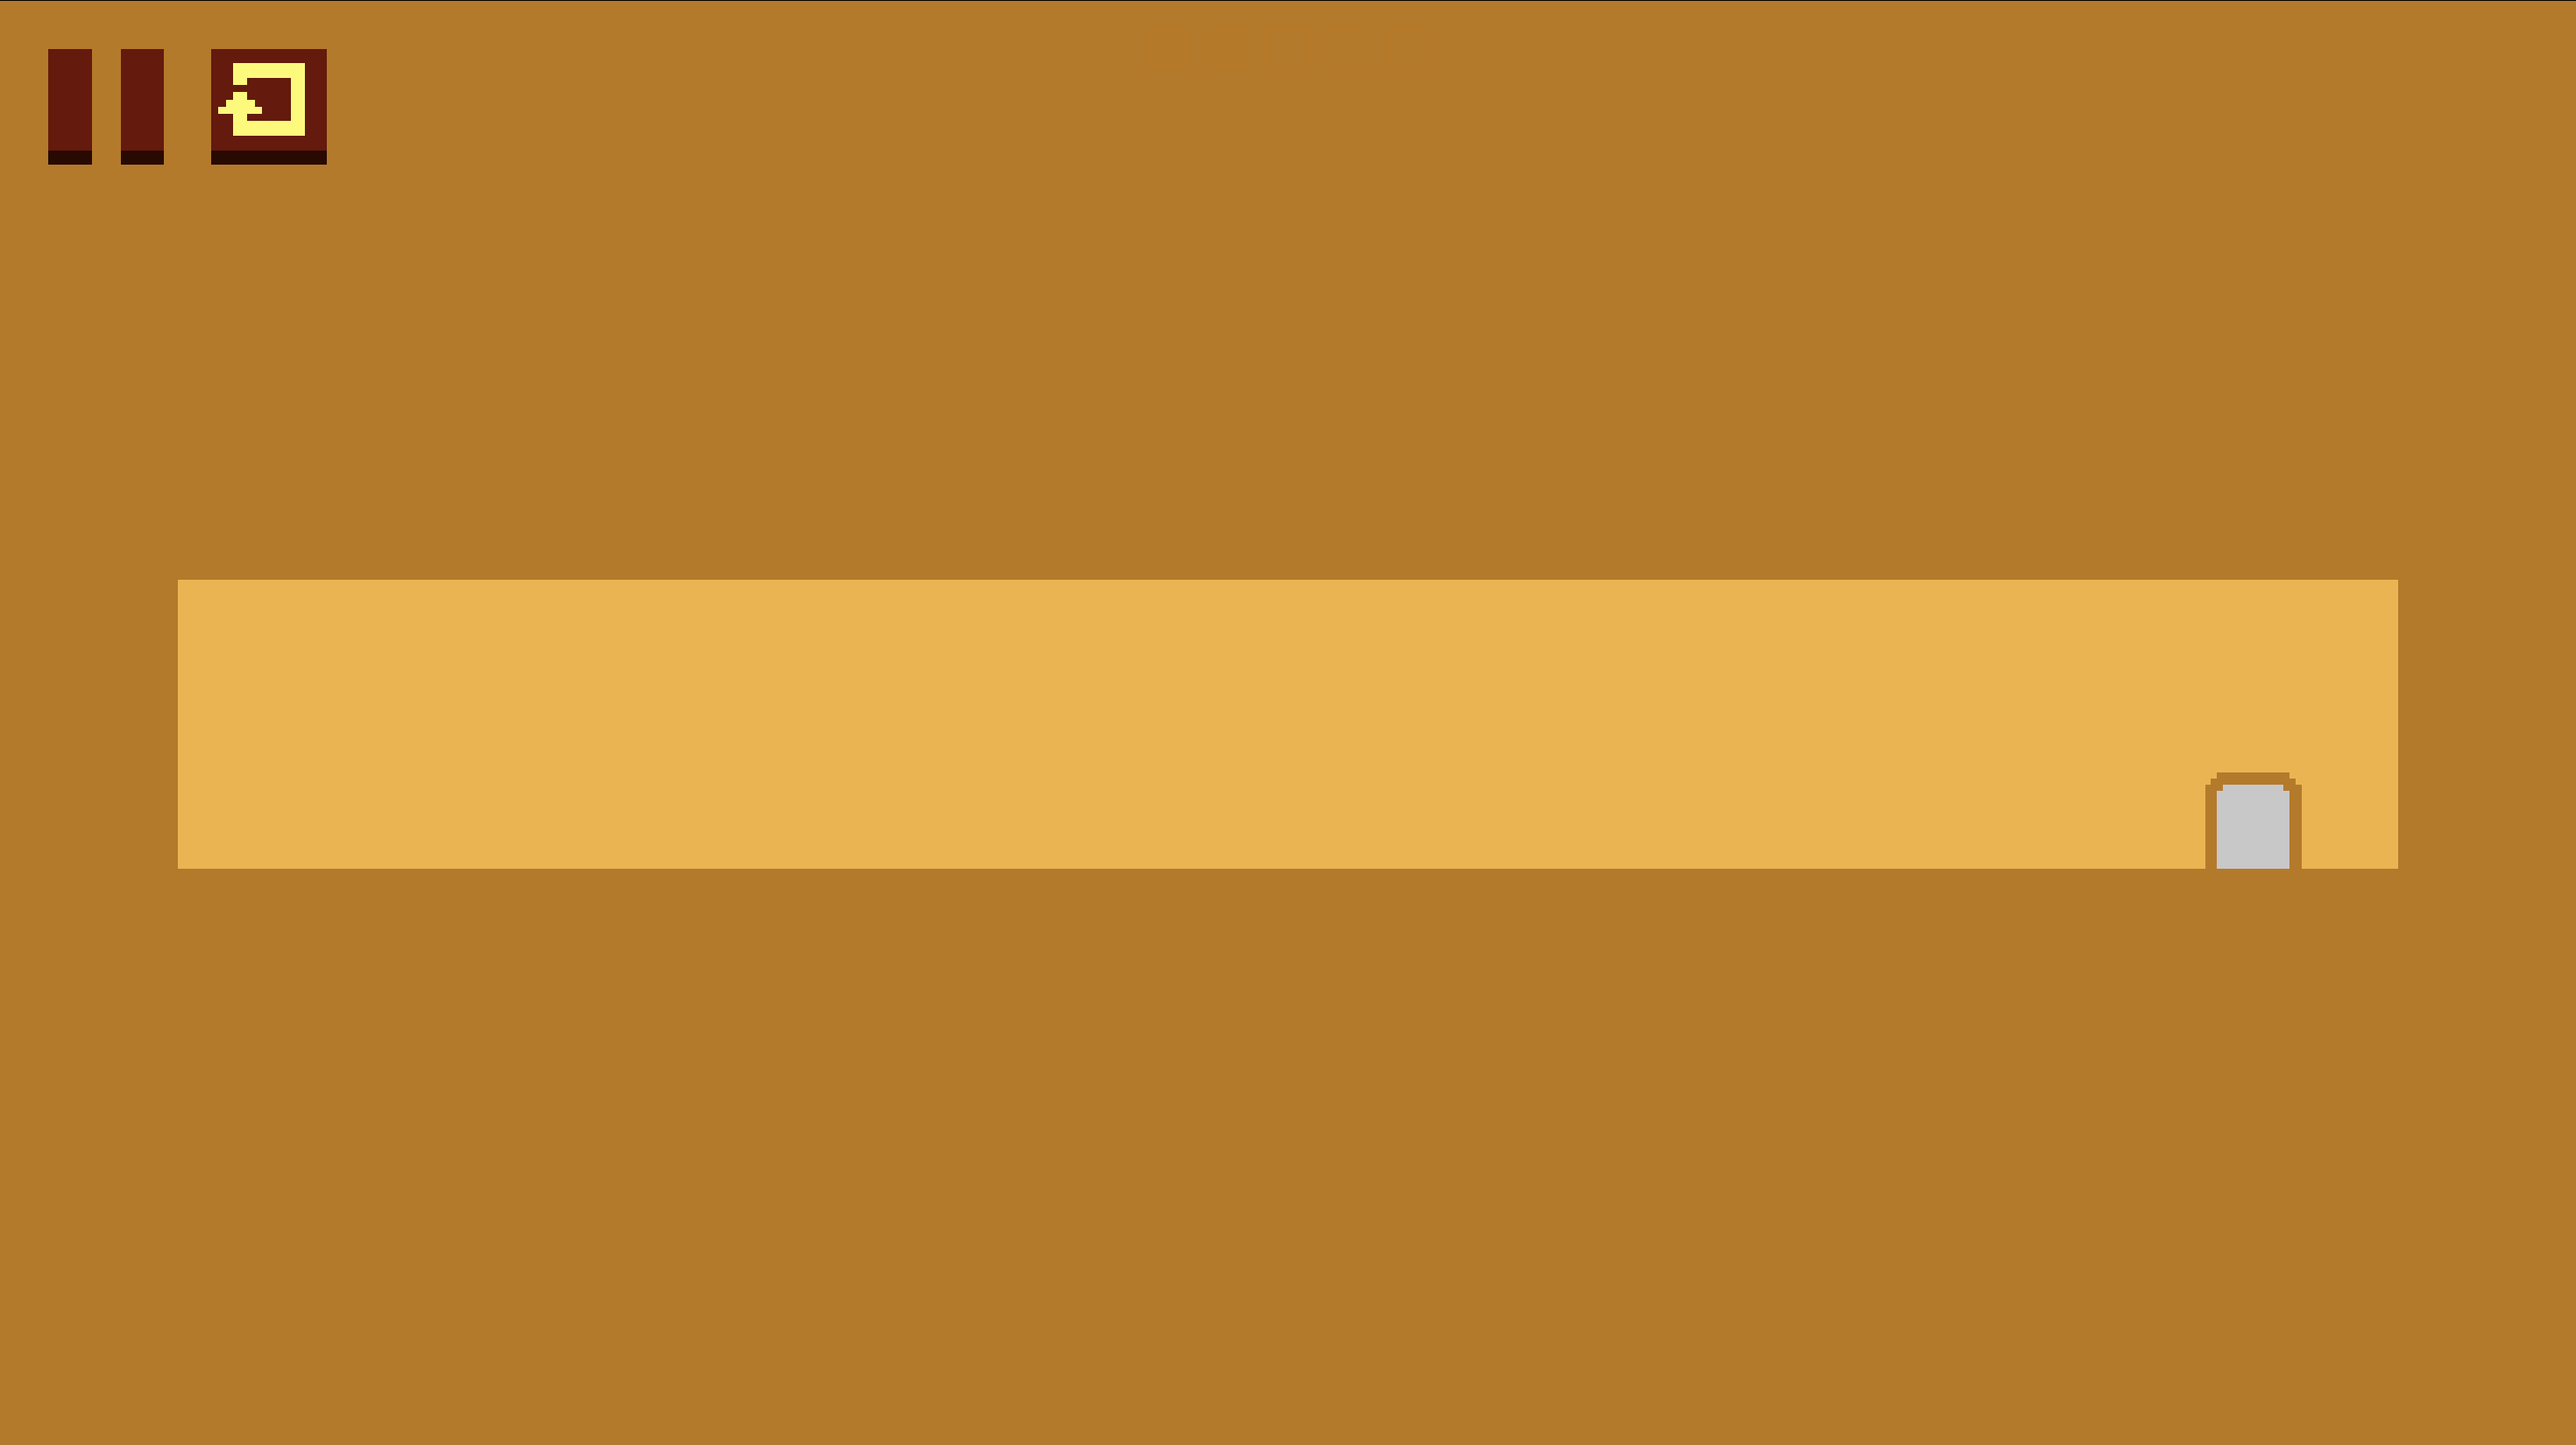
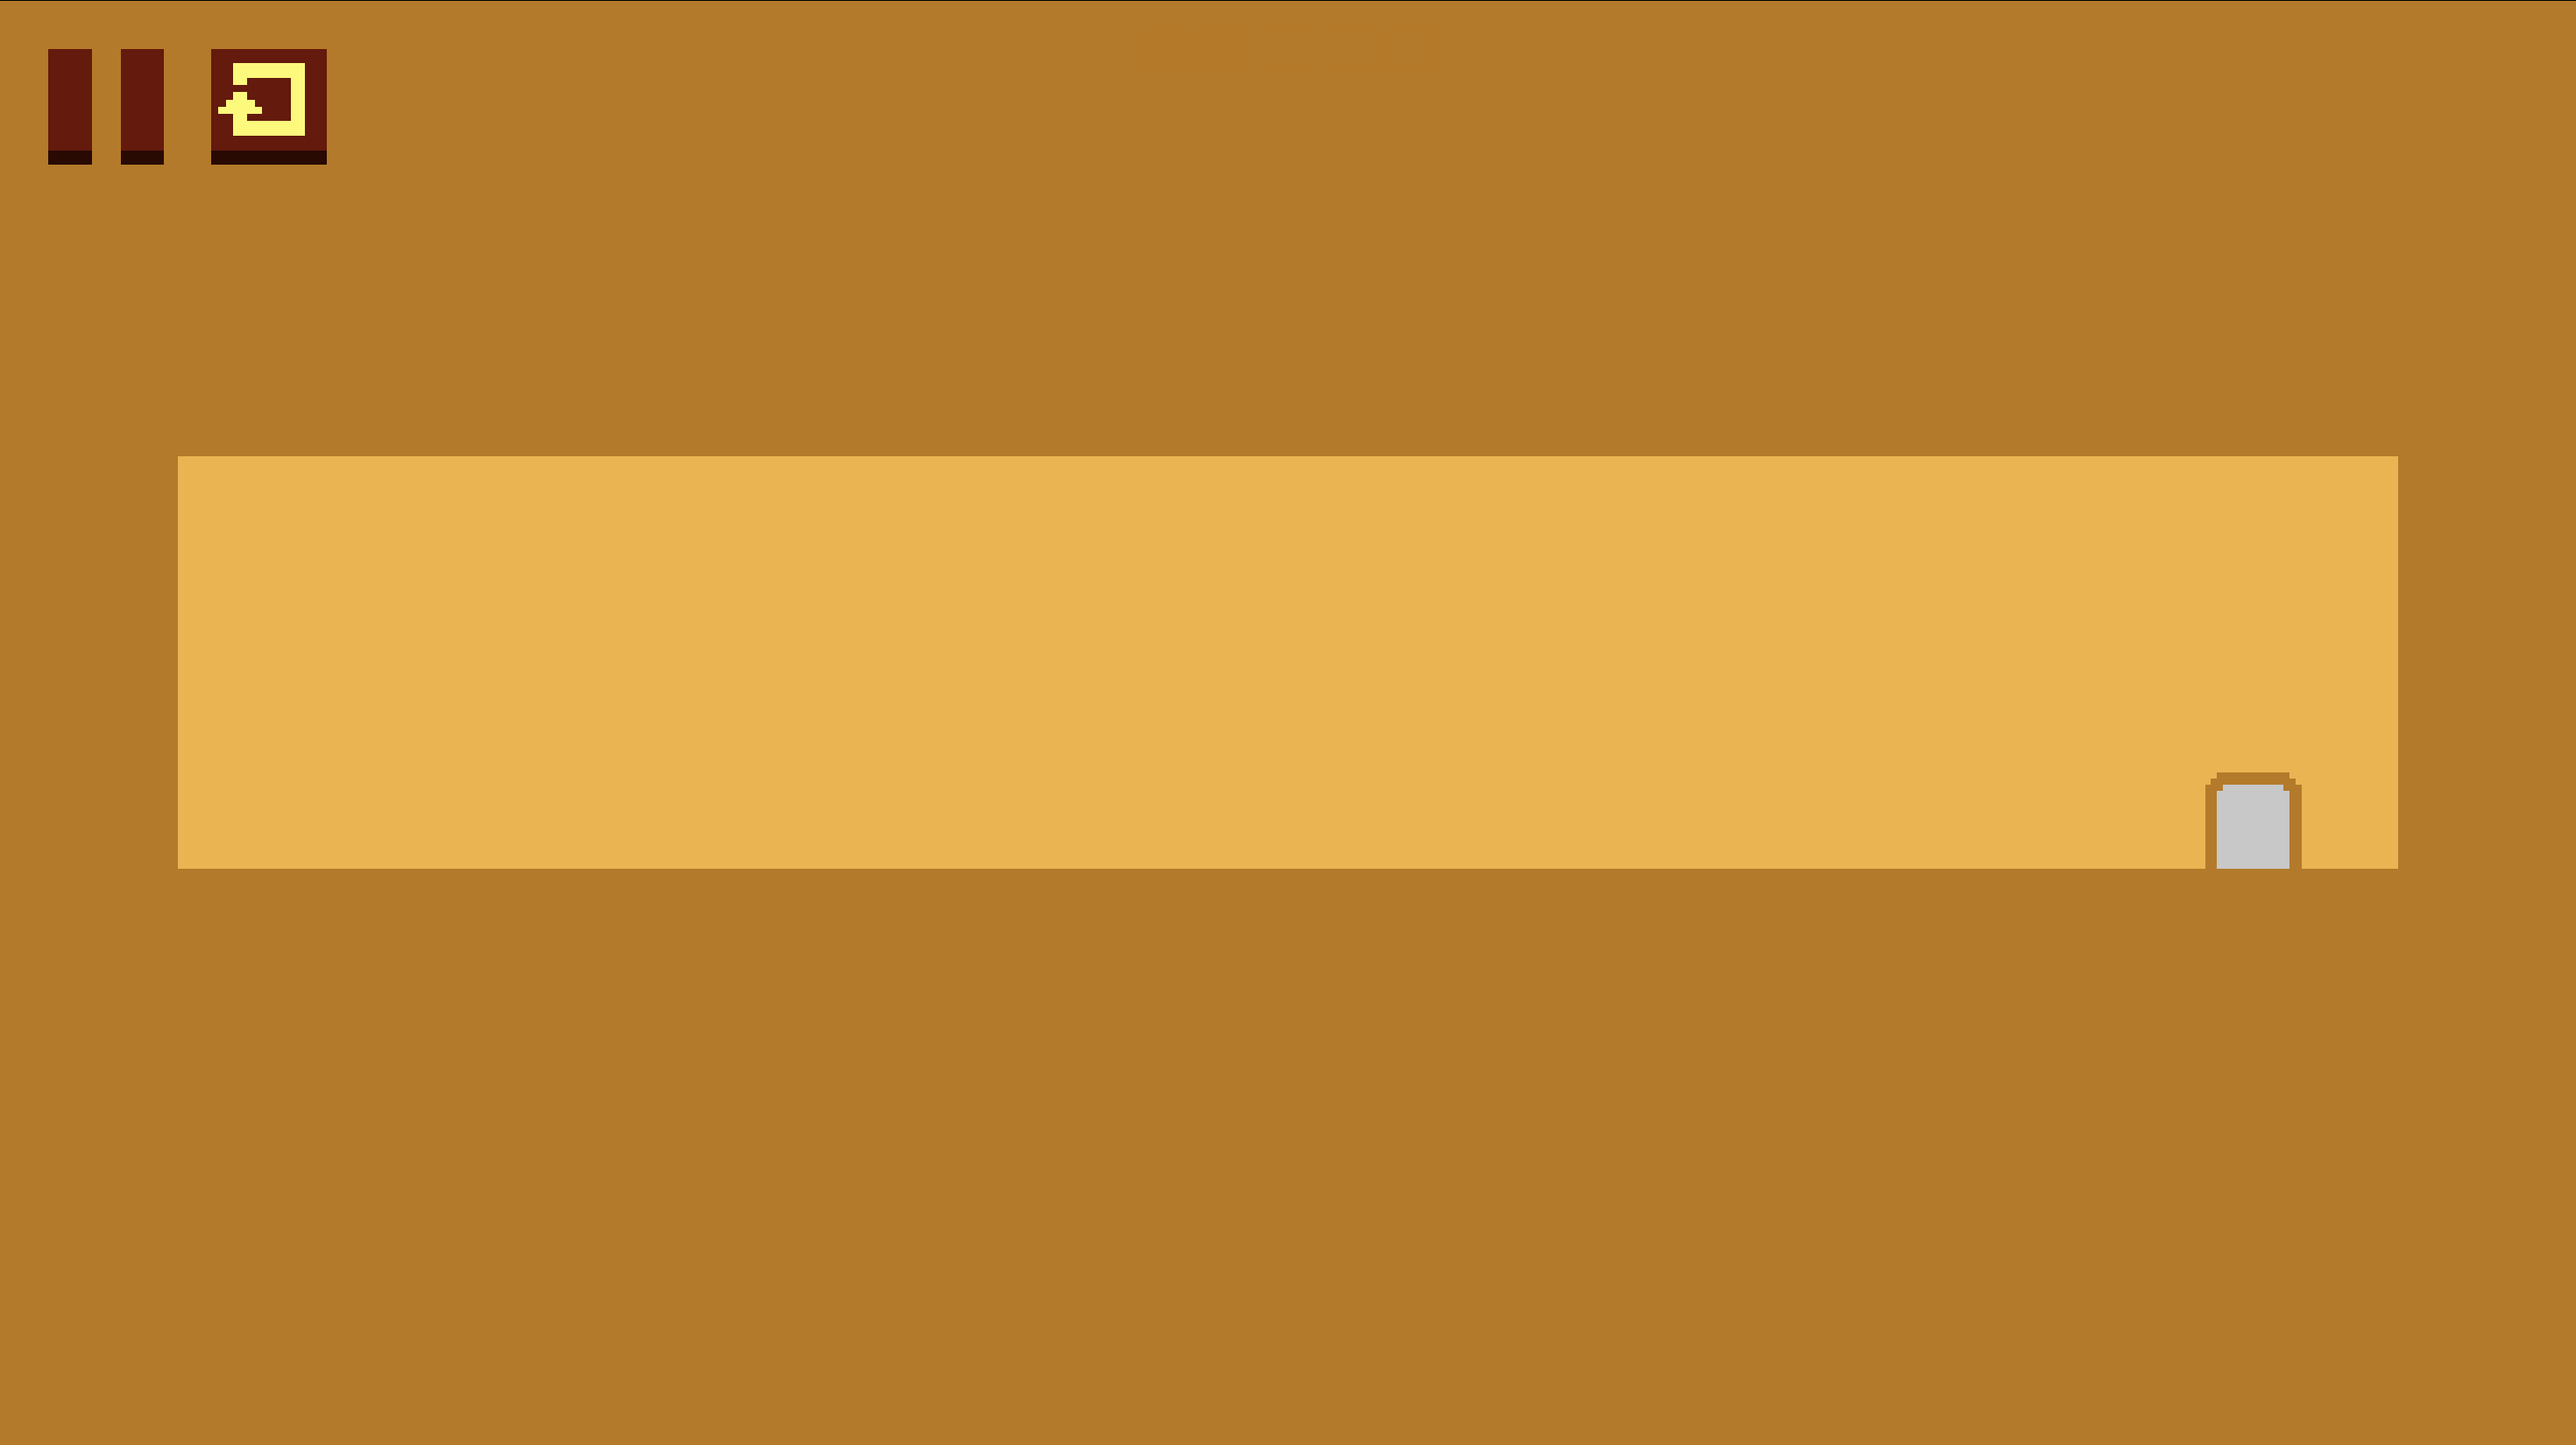
masktime

Changed region(s): [[0.0619, 0.3091, 0.9286, 0.4018]]

diff --git a/Guy.java b/Guy.java
@@ -1,18 +1,22 @@
 import java.awt.*;
 import java.awt.geom.*;
 import javax.swing.*;
+import java.awt.event.*;
+import javax.imageio.*;
+import java.awt.image.*; 
+import java.io.*; 
 
 public class Guy {
 
     public static final int SIZE = 35;
 
     public final int STARTX = 300;
-    public final int STARTY = 466;
+    public final int STARTY = 416;
 
     private static final double GRAVITY    = 0.7;
     private static final double JUMP_POWER = -13.5;
     private static final double WALK_SPEED = 4.0;
-    private static final int GROUND_Y   = 466;
+    private static final int GROUND_Y   = 416;
 
     private double x, y;
     private double velY;
@@ -25,12 +29,21 @@ public class Guy {
     private int frame; 
     private Image[] pics;
 
+    private BufferedImage map1mask;
+
     public Guy() {
         pics = new Image[3];
         for (int i = 0; i < 3; i++) {
             pics[i] = new ImageIcon("man/man" + i + ".png").getImage();
         }
         fullReset();
+
+        try {
+    		map1mask = ImageIO.read(new File("map/map1mask.png"));
+		} 
+		catch (IOException e) {
+			System.out.println(e);
+		}
     }
 
     public void respawn() {
@@ -54,7 +67,7 @@ public class Guy {
             return;
         }
 
-        if (dx != 0) {
+        if (dx != 0 && clear((int)x - SIZE, (int)y - SIZE)) {
             x += dx * WALK_SPEED;
             facingLeft = (dx < 0);
         }
@@ -68,7 +81,8 @@ public class Guy {
         y += velY;
 
         // stop at the ground
-        if (y >= GROUND_Y) {
+        // if (clear((int)x, (int)y + SIZE)) {
+        if (!clear((int)x, (int)y - SIZE) && !jump) {
             y = GROUND_Y;
             velY = 0;
             onGround = true;
@@ -96,7 +110,21 @@ public class Guy {
             frame = 1;
             walkTick = 0;
         }
+        //System.out.println(jump && onGround);
     }
+
+    private boolean clear(int x, int y){
+		int WALL = 0xFF0000FF;
+		/* colour in Java is ARGB. You can use a Color object, or just a single int. As an int
+		 * it is best to use hexadecimal. Each component is 8 bits, that is 0-256 in decimal,
+		 * or 0-FF in hex. My walls are blue in my mask. 
+		 **/
+		if(x<0 || x>= map1mask.getWidth(null) || y<0 || y>= map1mask.getHeight(null)){
+			return false;
+		}
+		int c = map1mask.getRGB(x, y);
+		return c != WALL;
+	}	
 
     public void setX(double v) {
         x = v;
@@ -137,6 +165,8 @@ public class Guy {
     public int getLives() {
         return lives;
     }
+
+
 
     public void draw(Graphics g) {
         Graphics2D g2 = (Graphics2D) g;

diff --git a/Devil.java b/Devil.java
@@ -5,6 +5,7 @@
 import java.awt.*;
 import java.awt.event.*;
 import javax.swing.*;
+import java.awt.image.*; 
 
 public class Devil extends JFrame {
     public Devil() {
@@ -26,6 +27,7 @@ class GamePanel extends JPanel implements KeyListener, ActionListener {
 
     private Guy guy = new Guy();
     private boolean[] keys = new boolean[2000];
+    private BufferedImage mask;
     private Timer timer;
 
     private Image backImage;
@@ -35,7 +37,7 @@ class GamePanel extends JPanel implements KeyListener, ActionListener {
 
         backImage = new ImageIcon("map/map1.png").getImage();
         spikes = new ImageIcon("spike.png").getImage();
-        setPreferredSize(new Dimension(2000, 1500));
+        setPreferredSize(new Dimension(1500, 750));
         // setBackground(Color.WHITE);
         setFocusable(true);
         requestFocus();
@@ -72,7 +74,7 @@ class GamePanel extends JPanel implements KeyListener, ActionListener {
         // g.setColor(new Color(60, 60, 60));
         // g.fillRect(0, 562, 700, 10);
         g.drawImage(backImage, 0, 0, getWidth(), getHeight(), null);
-        g.drawImage(spikes, 700,471, 80,30,null);
+        g.drawImage(spikes, 700,421, 80,30,null);
         guy.draw(g);
     }
 
